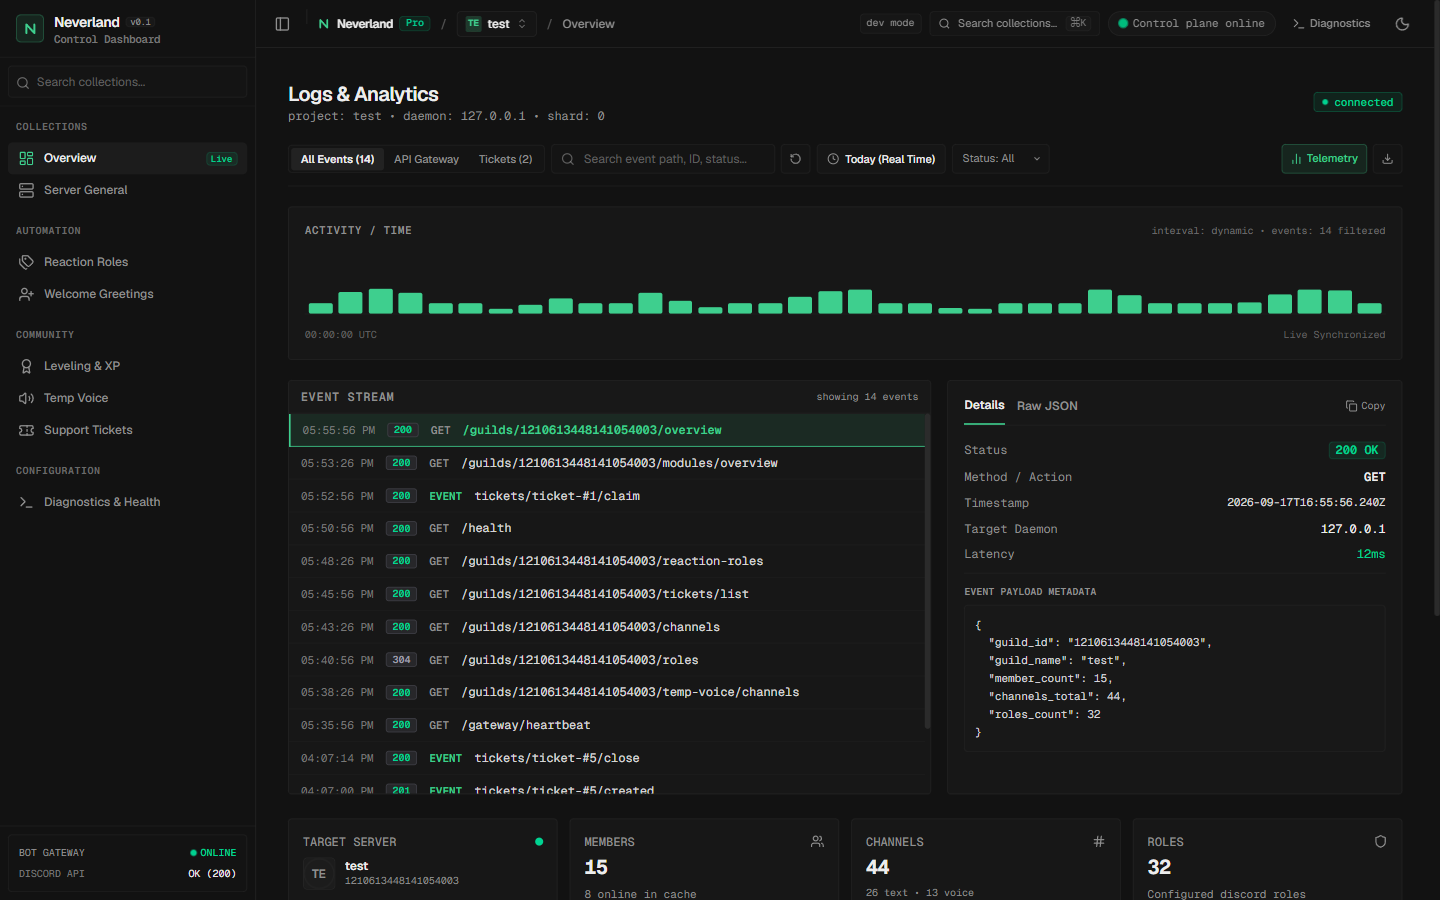
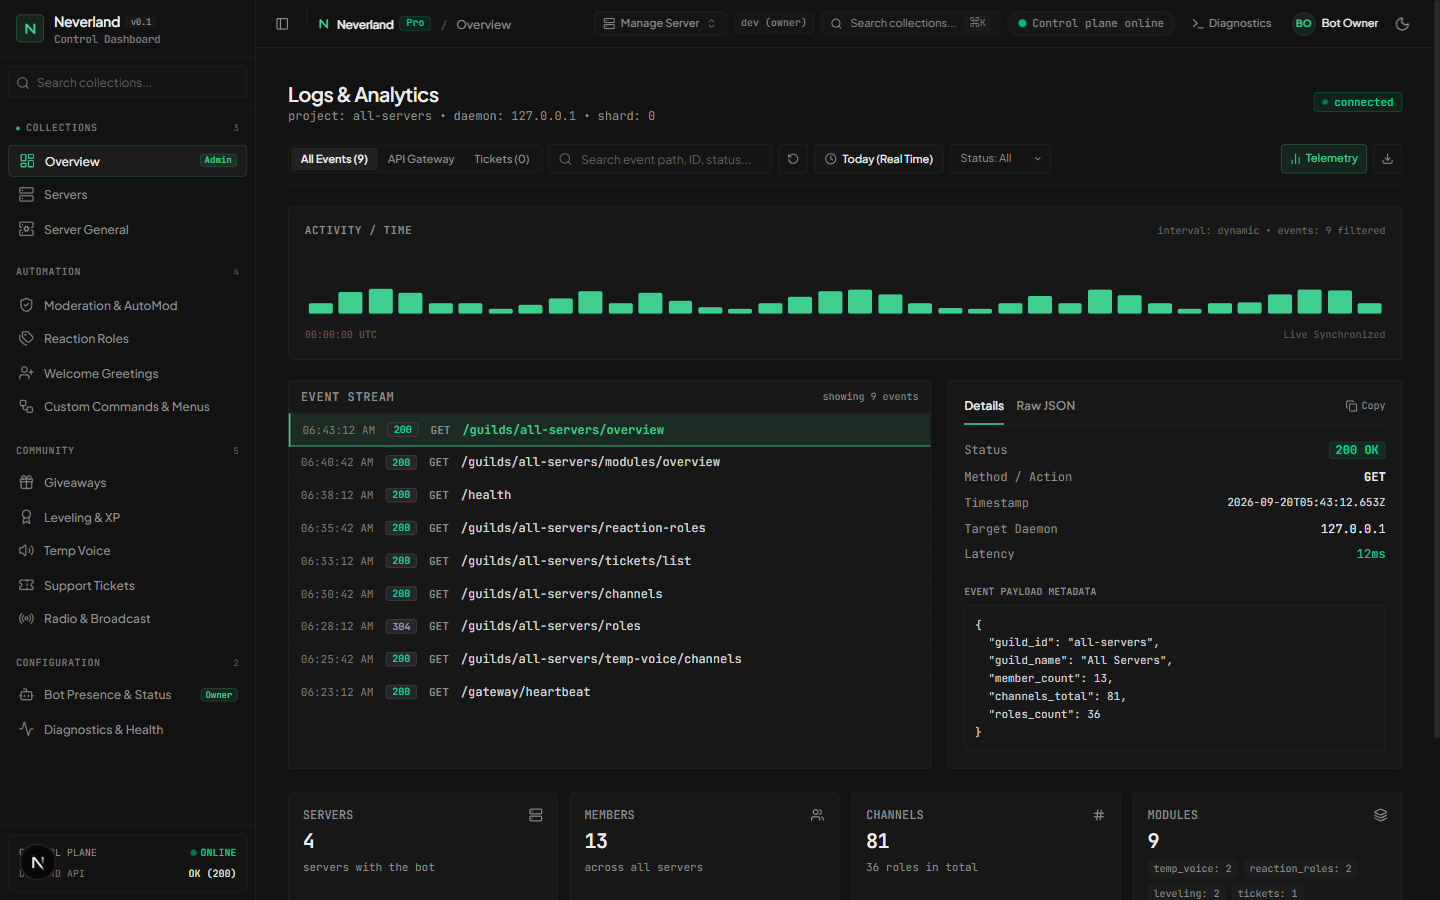
docs: update dashboard preview image with latest Overview analytics and layout

diff --git a/README.md b/README.md
@@ -13,6 +13,8 @@ Enterprise Discord Automation Platform and Next.js 15 Web Dashboard
 
 Neverland is an all-in-one Discord automation platform designed for performance, modularity, and administration. It combines an asynchronous Python Discord bot core with a Next.js 15 web dashboard styled using Supabase design principles and an integrated cross-platform CLI.
 
+![Neverland Dashboard Overview](assets/dashboard-preview.png)
+
 ---
 
 ## Quickstart
